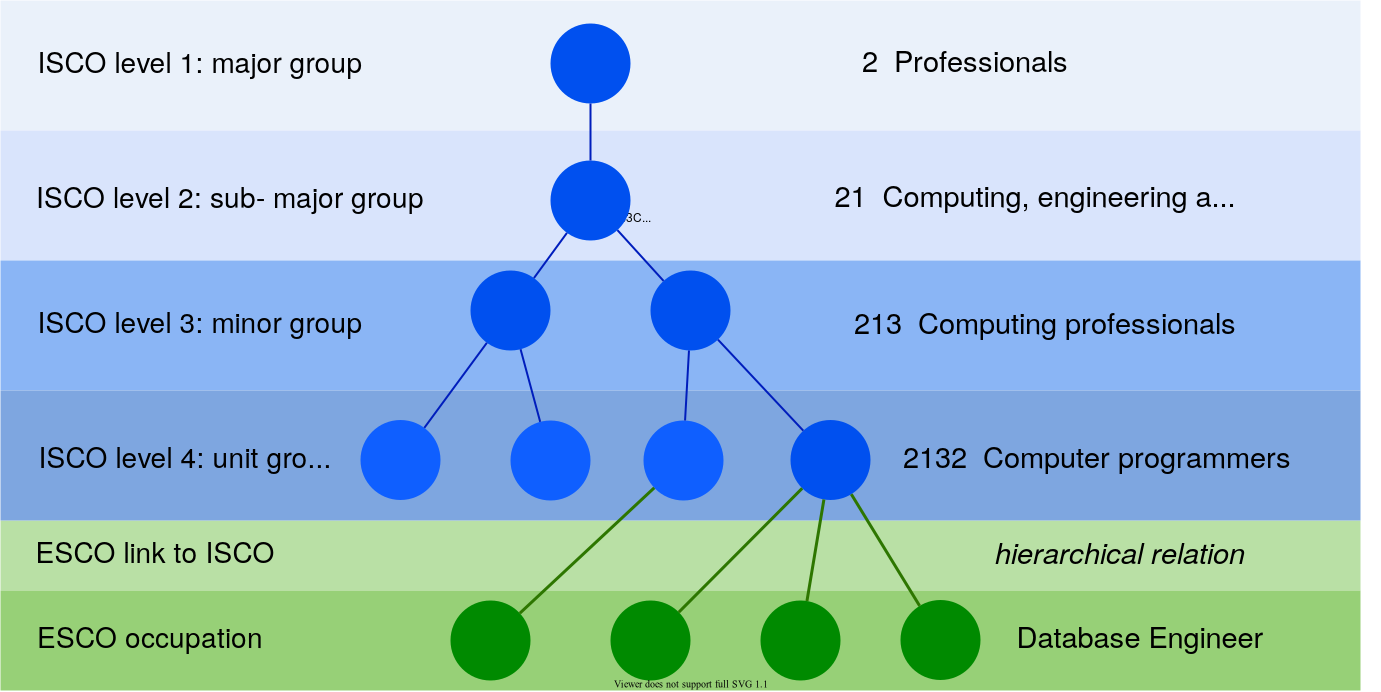
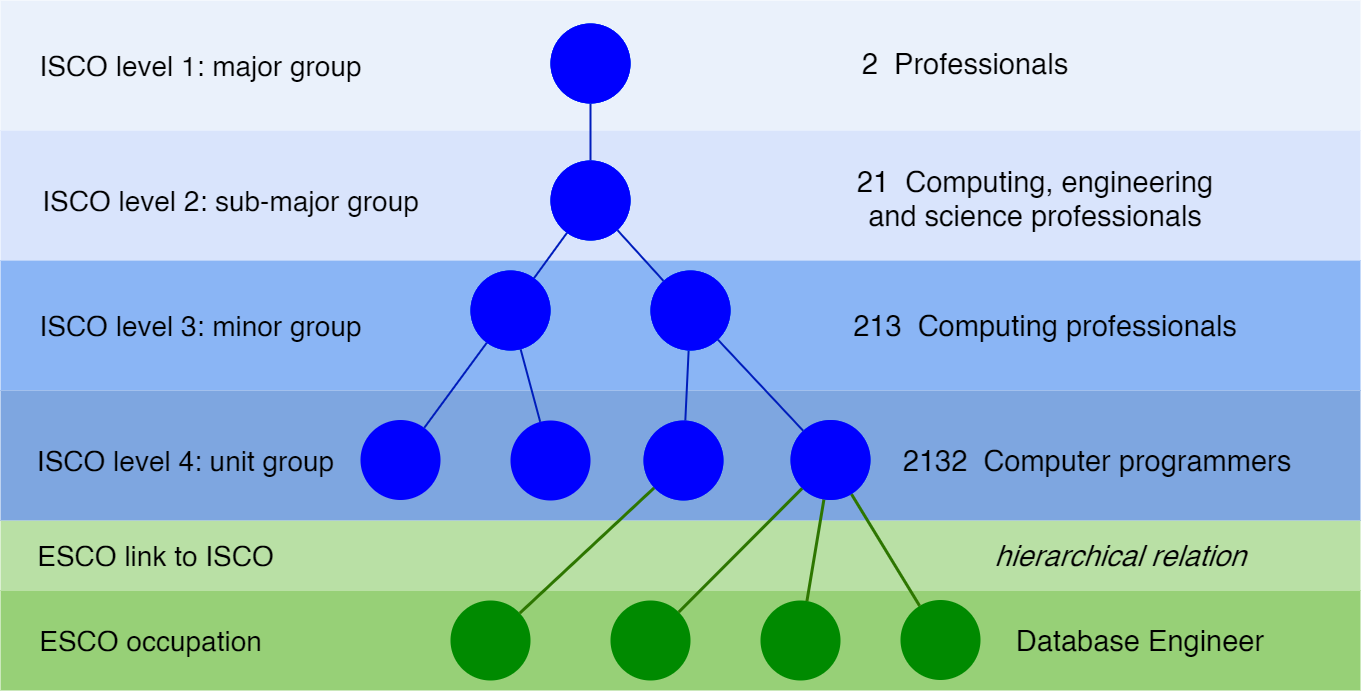
Documentation

diff --git a/docs/articles/occupations_retrieval.html b/docs/articles/occupations_retrieval.html
@@ -106,7 +106,9 @@
 <p>ESCO is the <a href="https://ec.europa.eu/esco/portal/escopedia/ESCO_languages">multilingual</a> classification of European <a href="https://ec.europa.eu/esco/portal/escopedia/Skill">Skills</a>, <a href="https://ec.europa.eu/esco/portal/escopedia/Competence">Competences</a>, <a href="https://ec.europa.eu/esco/portal/escopedia/Qualification">Qualifications</a> and <a href="https://ec.europa.eu/esco/portal/escopedia/Occupation">Occupations</a>. ESCO works as a dictionary, describing, identifying and classifying professional occupations, skills, and qualifications relevant for the EU labour market and education and training. Those concepts and the relationships between them can be understood by electronic systems, which allows different online platforms to use ESCO for services like matching jobseekers to jobs on the basis of their skills, suggesting training to people who want to reskill or upskill etc.</p>
 <p><a href="https://ec.europa.eu/esco/portal/escopedia/International_Standard_Classification_of_Occupations__40_ISCO_41_">ISCO</a>, on the other hand, the International Standard Classification of Occupations, is a four-level classification of occupation groups managed by the International Labour Organisation (ILO). Its structure follows a grouping by education level. The two latest versions of ISCO are ISCO-88 (dating from 1988) and ISCO-08 (dating from 2008).</p>
 <p>In ESCO, each occupation is mapped to exactly one ISCO-08 code. ISCO-08 can therefore be used as a hierarchical structure for the occupations pillar. ISCO-08 provides the top four levels for the occupations pillar. ESCO occupations are located at level 5 and lower.</p>
-<p><img src="../man/figures/ESCO_ISCO_hierarchy.svg" width="650"></p>
+<center>
+<img src="../man/figures/ESCO_ISCO_hierarchy.png" width="650">
+</center>
 <p>To find more about ESCO and its relationship with ISCO, visit <a href="https://ec.europa.eu/esco/portal/escopedia/Main_Page">ESCOpedia</a>, the online reference to the ESCO classification.</p>
 </div>
 <div id="an-introduction-to-the-labourr-package" class="section level2">
@@ -167,7 +169,7 @@
 
 
       <footer><div class="copyright">
-  <p>Developed by Alexandros Kouretsis, Andreas Babouris, Petros Morfiris, Konstantinos Papageorgiou.</p>
+  <p>Developed by Andreas Babouris, Alexandros Kouretsis, Petros Morfiris, Konstantinos Papageorgiou.</p>
 </div>
 
 <div class="pkgdown">

diff --git a/docs/index.html b/docs/index.html
@@ -101,7 +101,9 @@
 <!-- badges: start -->
 
 <p>The goal of labourR is to map multilingual free-text of occupations, such as a job title in a Curriculum Vitae, to hierarchical ontologies like <a href="https://ec.europa.eu/esco/portal">ESCO</a>, the multilingual classification of European Skills, Competences, Qualifications and Occupations, and <a href="https://ec.europa.eu/esco/portal/escopedia/International_Standard_Classification_of_Occupations__40_ISCO_41_">ISCO</a>, the International Standard Classification of Occupations.</p>
-<p><img src="reference/figures/ESCO_ISCO_hierarchy.svg" width="650"></p>
+<center>
+<p><img src="reference/figures/ESCO_ISCO_hierarchy.png" width="650"></p>
+</center>
 <p>Computations are vectorised and the <code>data.table</code> package is used for high performance and memory efficiency.</p>
 <p>See <a href="https://alekoure.github.io/labourR/articles/occupations_retrieval.html">Articles</a> section for details.</p>
 <div id="installation" class="section level2">
@@ -169,8 +171,8 @@
 <div class="developers">
 <h2>Developers</h2>
 <ul class="list-unstyled">
-<li>Alexandros Kouretsis <br><small class="roles"> Author, maintainer </small>  </li>
 <li>Andreas Babouris <br><small class="roles"> Author </small>  </li>
+<li>Alexandros Kouretsis <br><small class="roles"> Author, maintainer </small>  </li>
 <li>Petros Morfiris <br><small class="roles"> Author </small>  </li>
 <li>Konstantinos Papageorgiou <br><small class="roles"> Author </small>  </li>
 <li><a href="authors.html">All authors...</a></li>
@@ -190,7 +192,7 @@
 
 
       <footer><div class="copyright">
-  <p>Developed by Alexandros Kouretsis, Andreas Babouris, Petros Morfiris, Konstantinos Papageorgiou.</p>
+  <p>Developed by Andreas Babouris, Alexandros Kouretsis, Petros Morfiris, Konstantinos Papageorgiou.</p>
 </div>
 
 <div class="pkgdown">

diff --git a/docs/reference/classify_occupation.html b/docs/reference/classify_occupation.html
@@ -200,7 +200,7 @@ or a data.table with the id, the preferred label and the suggested ISCO group of
     <h2 class="hasAnchor" id="details"><a class="anchor" href="#details"></a>Details</h2>
 
     <p>First, the input text is cleansed and tokenized. The tokens are then matched with the ESCO occupations vocabulary, created from
-the <code><a href='occupations_bundle.html'>preferred and alternative labels</a></code> of the occupations. They are joined with the <code><a href='tf_idf.html'>tfidf</a></code>
+the preferred and alternative labels of the occupations. They are joined with the <code><a href='tf_idf.html'>tfidf</a></code>
 weighted tokens of the ESCO occupations and the sum of the tf-idf score is used to retrieve the suggested ontologies. Technically speaking, the
 suggested ESCO occupations are retrieved by solving the optimization problem, $$\arg\max_d\left\{\vec{u}_{binary}\cdot \vec{u}_d\right\}$$
 where, \(\vec{u}_{binary}\) stands for the binary representation of a query to the ESCO-vocabulary space,
@@ -242,7 +242,7 @@ Using job vacancies to understand the effects of labour market mismatch on UK ou
 
       <footer>
       <div class="copyright">
-  <p>Developed by Alexandros Kouretsis, Andreas Babouris, Petros Morfiris, Konstantinos Papageorgiou.</p>
+  <p>Developed by Andreas Babouris, Alexandros Kouretsis, Petros Morfiris, Konstantinos Papageorgiou.</p>
 </div>
 
 <div class="pkgdown">

diff --git a/docs/authors.html b/docs/authors.html
@@ -135,11 +135,11 @@
 
     <ul class="list-unstyled">
       <li>
-        <p><strong>Alexandros Kouretsis</strong>. Author, maintainer. 
+        <p><strong>Andreas Babouris</strong>. Author. 
         </p>
       </li>
       <li>
-        <p><strong>Andreas Babouris</strong>. Author. 
+        <p><strong>Alexandros Kouretsis</strong>. Author, maintainer. 
         </p>
       </li>
       <li>
@@ -180,7 +180,7 @@
 
       <footer>
       <div class="copyright">
-  <p>Developed by Alexandros Kouretsis, Andreas Babouris, Petros Morfiris, Konstantinos Papageorgiou.</p>
+  <p>Developed by Andreas Babouris, Alexandros Kouretsis, Petros Morfiris, Konstantinos Papageorgiou.</p>
 </div>
 
 <div class="pkgdown">

diff --git a/docs/reference/get_language_code.html b/docs/reference/get_language_code.html
@@ -172,7 +172,7 @@ from the downloadable CSVs, see <a href='https://ec.europa.eu/esco/portal/escope
 
       <footer>
       <div class="copyright">
-  <p>Developed by Alexandros Kouretsis, Andreas Babouris, Petros Morfiris, Konstantinos Papageorgiou.</p>
+  <p>Developed by Andreas Babouris, Alexandros Kouretsis, Petros Morfiris, Konstantinos Papageorgiou.</p>
 </div>
 
 <div class="pkgdown">

diff --git a/docs/reference/identify_language.html b/docs/reference/identify_language.html
@@ -177,7 +177,7 @@ lists of proper names, part numbers, etc. CLD2 has the highest F1 score and is a
 
       <footer>
       <div class="copyright">
-  <p>Developed by Alexandros Kouretsis, Andreas Babouris, Petros Morfiris, Konstantinos Papageorgiou.</p>
+  <p>Developed by Andreas Babouris, Alexandros Kouretsis, Petros Morfiris, Konstantinos Papageorgiou.</p>
 </div>
 
 <div class="pkgdown">

diff --git a/docs/reference/get_stopwords.html b/docs/reference/get_stopwords.html
@@ -494,7 +494,7 @@ For miscellaneous languages <code>data_stopwords_misc</code> are used.</p>
 
       <footer>
       <div class="copyright">
-  <p>Developed by Alexandros Kouretsis, Andreas Babouris, Petros Morfiris, Konstantinos Papageorgiou.</p>
+  <p>Developed by Andreas Babouris, Alexandros Kouretsis, Petros Morfiris, Konstantinos Papageorgiou.</p>
 </div>
 
 <div class="pkgdown">

diff --git a/docs/reference/occupations_bundle.html b/docs/reference/occupations_bundle.html
@@ -181,7 +181,7 @@ The descriptions of each concept is provided only in English.</p><ul>
 
       <footer>
       <div class="copyright">
-  <p>Developed by Alexandros Kouretsis, Andreas Babouris, Petros Morfiris, Konstantinos Papageorgiou.</p>
+  <p>Developed by Andreas Babouris, Alexandros Kouretsis, Petros Morfiris, Konstantinos Papageorgiou.</p>
 </div>
 
 <div class="pkgdown">

diff --git a/docs/reference/cleansing_corpus.html b/docs/reference/cleansing_corpus.html
@@ -198,7 +198,7 @@ long-words, excess space, and turns all letters to lower case.</p>
 
       <footer>
       <div class="copyright">
-  <p>Developed by Alexandros Kouretsis, Andreas Babouris, Petros Morfiris, Konstantinos Papageorgiou.</p>
+  <p>Developed by Andreas Babouris, Alexandros Kouretsis, Petros Morfiris, Konstantinos Papageorgiou.</p>
 </div>
 
 <div class="pkgdown">

diff --git a/docs/reference/isco_occupations_bundle.html b/docs/reference/isco_occupations_bundle.html
@@ -176,7 +176,7 @@ ISCO-88 (dating from 1988) and ISCO-08 (dating from 2008).</p><ul>
 
       <footer>
       <div class="copyright">
-  <p>Developed by Alexandros Kouretsis, Andreas Babouris, Petros Morfiris, Konstantinos Papageorgiou.</p>
+  <p>Developed by Andreas Babouris, Alexandros Kouretsis, Petros Morfiris, Konstantinos Papageorgiou.</p>
 </div>
 
 <div class="pkgdown">

diff --git a/docs/404.html b/docs/404.html
@@ -149,7 +149,7 @@ Content not found. Please use links in the navbar.
 
       <footer>
       <div class="copyright">
-  <p>Developed by Alexandros Kouretsis, Andreas Babouris, Petros Morfiris, Konstantinos Papageorgiou.</p>
+  <p>Developed by Andreas Babouris, Alexandros Kouretsis, Petros Morfiris, Konstantinos Papageorgiou.</p>
 </div>
 
 <div class="pkgdown">

diff --git a/docs/reference/tf_idf.html b/docs/reference/tf_idf.html
@@ -220,7 +220,7 @@ free-text query.</p>
 
       <footer>
       <div class="copyright">
-  <p>Developed by Alexandros Kouretsis, Andreas Babouris, Petros Morfiris, Konstantinos Papageorgiou.</p>
+  <p>Developed by Andreas Babouris, Alexandros Kouretsis, Petros Morfiris, Konstantinos Papageorgiou.</p>
 </div>
 
 <div class="pkgdown">
